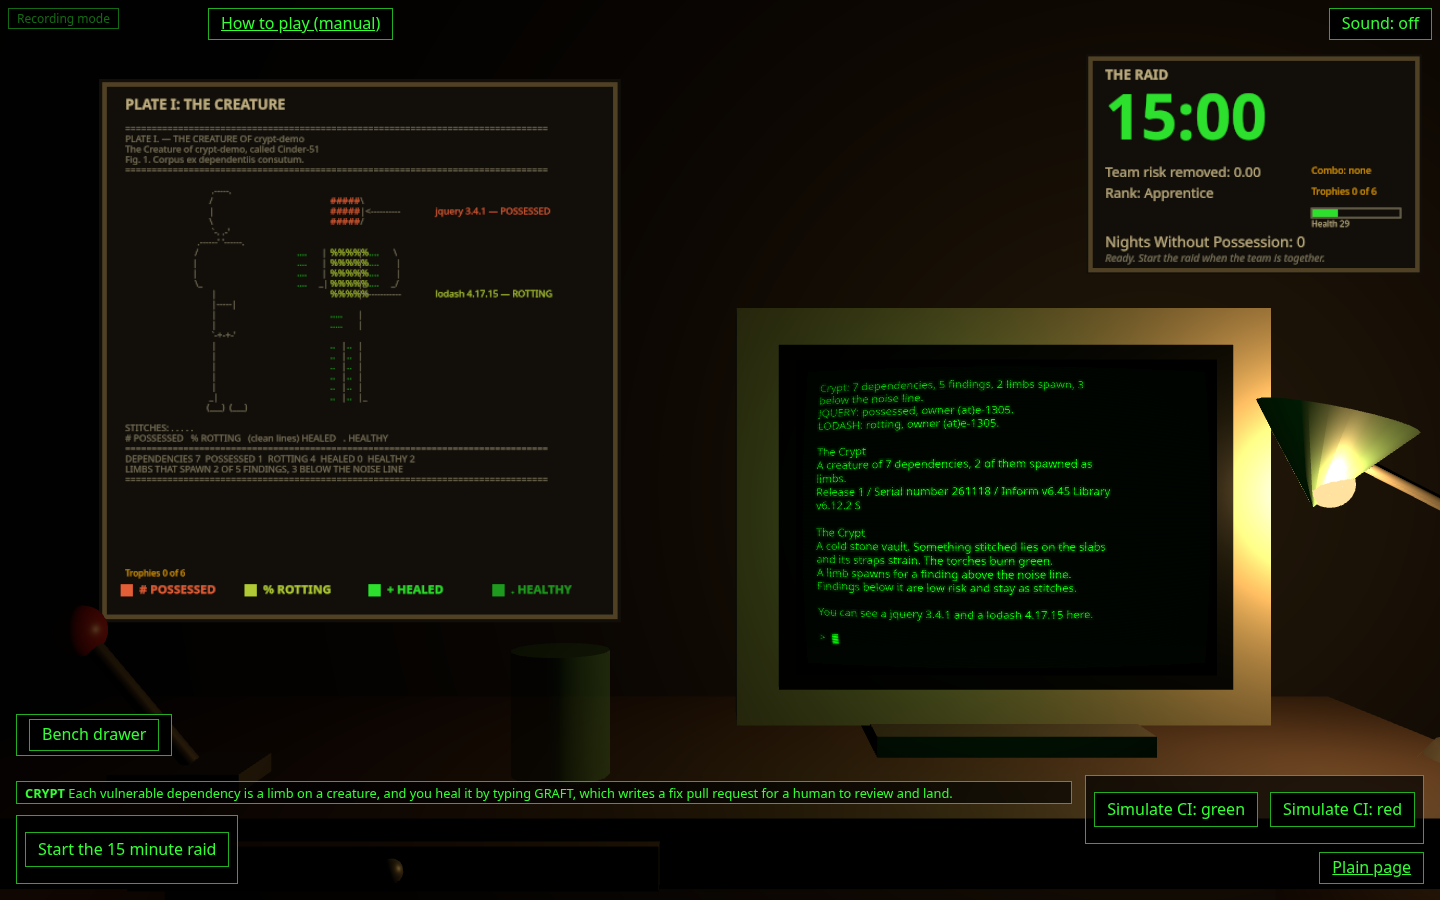
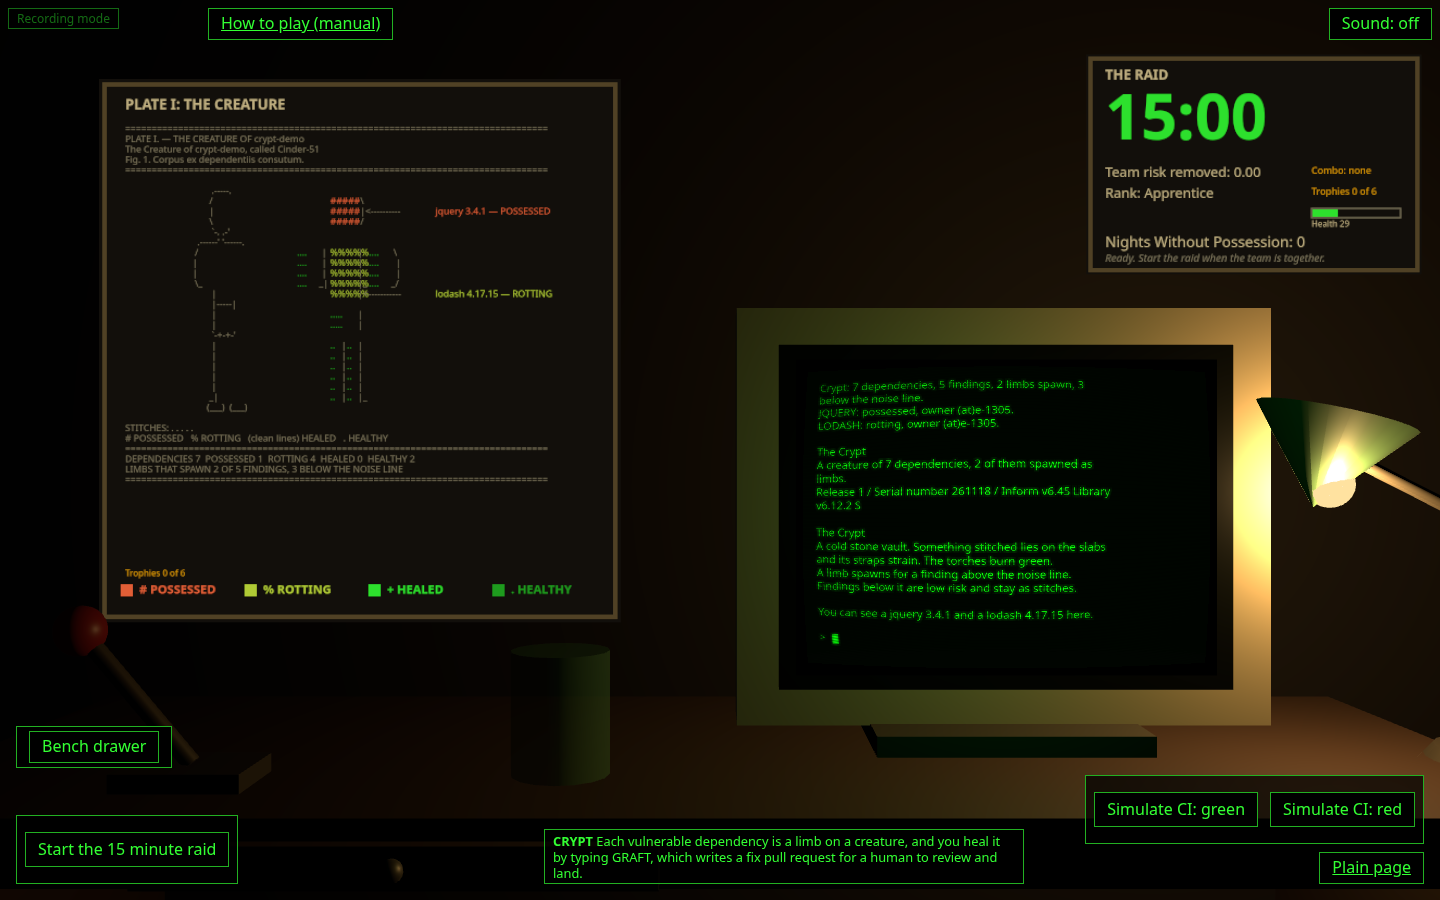
fix(#58): one bottom layout for the 3D bench, caption in its own centre slot

Changed region(s): [[0.0, 0.7778, 0.75, 0.9022], [0.375, 0.9333, 0.6875, 0.9956]]

diff --git a/web/style.css b/web/style.css
@@ -103,13 +103,13 @@ body.theatre { overflow: hidden; background: #050403; }
 body.theatre::after { display: none; }
 body.theatre #theatre-canvas { position: fixed; inset: 0; width: 100vw; height: 100vh; display: block; }
 body.theatre .top, body.theatre .crt { position: absolute; width: 1px; height: 1px; margin: -1px; padding: 0; overflow: hidden; clip-path: inset(50%); white-space: nowrap; border: 0; }
-#theatre-plain { position: fixed; right: 1rem; bottom: 1rem; z-index: 5; color: var(--fg); background: #000; border: 1px solid var(--dim); padding: .25rem .75rem; }
+#theatre-plain { position: fixed; right: var(--bar-edge); bottom: var(--bar-edge); box-sizing: border-box; max-width: var(--bar-right); z-index: 5; color: var(--fg); background: #000; border: 1px solid var(--dim); padding: .25rem .75rem; }
 #theatre-manual { position: fixed; left: 13rem; top: .5rem; z-index: 6; color: var(--fg); background: #000; border: 1px solid var(--dim); padding: .25rem .75rem; min-height: 24px; }
 .manual-link { color: var(--fg); border: 1px solid var(--dim); padding: .25rem .75rem; min-height: 24px; display: inline-block; }
 .manual-link:focus-visible, #theatre-manual:focus-visible, #theatre-plain:focus-visible { outline: 2px solid var(--warn); outline-offset: 2px; }
 
 /* Bench drawer (web/theatre/drawer.js): the A3 actions inside the 3D theatre. */
-#bench-drawer { position: fixed; left: 1rem; bottom: 9rem; z-index: 5; max-width: min(24rem, calc(100vw - 2rem)); color: var(--fg); background: #000; border: 1px solid var(--dim); padding: .25rem .75rem; }
+#bench-drawer { position: fixed; left: var(--bar-edge); bottom: var(--bar-drawer-bottom); z-index: 5; max-width: min(24rem, calc(100vw - 2rem)); color: var(--fg); background: #000; border: 1px solid var(--dim); padding: .25rem .75rem; }
 #bench-drawer-body { padding: .5rem 0; }
 #bench-drawer h2 { margin: 0 0 .25rem; font-size: 1rem; }
 #bench-drawer input { width: 100%; box-sizing: border-box; background: transparent; border: 1px solid var(--dim); color: var(--fg); font: inherit; padding: .25rem; margin: .25rem 0; }
@@ -121,11 +121,11 @@ body.theatre .top, body.theatre .crt { position: absolute; width: 1px; height: 1
 .raid-actions { display: flex; gap: .75rem; margin: .5rem 0; flex-wrap: wrap; }
 .raid-actions button { font: inherit; color: var(--fg); background: #000; border: 1px solid var(--dim); padding: .35rem .75rem; cursor: pointer; }
 .raid-actions button:disabled { opacity: .5; cursor: default; }
-body.theatre #raid { position: fixed; left: 1rem; bottom: 1rem; z-index: 5; margin: 0; padding: .5rem; background: rgba(0,0,0,.7); }
+body.theatre #raid { position: fixed; left: var(--bar-edge); bottom: var(--bar-edge); box-sizing: border-box; max-width: var(--bar-left); z-index: 5; margin: 0; padding: .5rem; background: rgba(0,0,0,.7); }
 body.theatre #raid > h2, body.theatre #raid > p, body.theatre .raid-readout { position: absolute; width: 1px; height: 1px; margin: -1px; overflow: hidden; clip-path: inset(50%); white-space: nowrap; }
 
 /* Simulated CI controls (web/heal.js). In 3D the buttons float bottom right; the label is drawn on the wall plate. */
-body.theatre #sim { position: fixed; right: 1rem; bottom: 3.5rem; z-index: 5; margin: 0; padding: .5rem; background: rgba(0,0,0,.7); }
+body.theatre #sim { position: fixed; right: var(--bar-edge); bottom: calc(var(--bar-edge) + 2.5rem); box-sizing: border-box; max-width: var(--bar-right); z-index: 5; margin: 0; padding: .5rem; background: rgba(0,0,0,.7); }
 body.theatre #sim > h2, body.theatre #sim > p { position: absolute; width: 1px; height: 1px; margin: -1px; overflow: hidden; clip-path: inset(50%); white-space: nowrap; }
 .sim { margin: 0 1rem 1rem; }
 
@@ -224,12 +224,28 @@ body:not(.theatre) .transcript { height: min(40vh, 14rem); min-height: 8rem; }
 .input-row { align-items: baseline; flex-wrap: wrap; }
 .input-row input { min-width: 8rem; }
 
-/* 3D bench caption: the title and the pitch on the first frame. It sits in its own row above the bottom controls (#raid left, #sim right), so no control width can reach it. Text is aria-hidden: the same sentence is in the page header. */
+/* Bottom bar of the 3D bench: one layout with three slots, sized by the variables below so no slot depends on the
+   width of its neighbour's content.
+     left   = #raid (bottom row) with #bench-drawer above it
+     centre = #theatre-caption (the pitch), fills the space between the side slots
+     right  = #sim above #theatre-plain
+   Every piece stays position:fixed (the visual QA check reads computed positions), but all offsets come from these
+   variables. Under 1100px there is no room for a centre slot, so the caption becomes a full-width row above the
+   side slots and the drawer moves up one row. */
+body.theatre {
+  --bar-edge: 1rem; --bar-gap: 1rem;
+  --bar-left: 32rem; --bar-right: 24rem;
+  --bar-row: 7rem;
+  --bar-drawer-bottom: calc(var(--bar-edge) + var(--bar-row) + .25rem);
+}
+@media (max-width: 1100px) { body.theatre { --bar-drawer-bottom: calc(var(--bar-edge) + var(--bar-row) + 3.75rem); } }
+/* The pitch: wraps inside the centre slot, then truncates after 3 lines. The full sentence is the title tooltip. */
 .theatre-caption { display: none; }
-body.theatre .theatre-caption { display: block; position: fixed; z-index: 4; bottom: 6rem; left: 1rem; right: 23rem; margin: 0; padding: .15rem .5rem;
-  font-size: .8rem; line-height: 1.25; color: var(--fg); background: rgba(0, 0, 0, .65); border: 1px solid var(--dim); pointer-events: none; }
+body.theatre .theatre-caption { display: -webkit-box; -webkit-box-orient: vertical; -webkit-line-clamp: 3; line-clamp: 3; overflow: hidden; box-sizing: border-box; position: fixed; z-index: 4; bottom: var(--bar-edge);
+  left: calc(var(--bar-edge) + var(--bar-left) + var(--bar-gap)); right: calc(var(--bar-edge) + var(--bar-right) + var(--bar-gap));
+  margin: 0; padding: .15rem .5rem; font-size: .8rem; line-height: 1.25; color: var(--fg); background: rgba(0, 0, 0, .65); border: 1px solid var(--dim); }
 body.record .theatre-caption { display: none; }
-@media (max-width: 900px) { body.theatre .theatre-caption { bottom: 8rem; left: .5rem; right: .5rem; } }
+@media (max-width: 1100px) { body.theatre .theatre-caption { -webkit-line-clamp: 2; line-clamp: 2; bottom: calc(var(--bar-edge) + var(--bar-row) + .25rem); left: var(--bar-edge); right: var(--bar-edge); } }
 
 /* Visual QA 1 (issue #56). The side stats get their own row so they never share a line with the health bar. */
 .raid-readout #raid-nights { display: block; clear: both; margin: .5rem 0; }

diff --git a/web/index.html b/web/index.html
@@ -9,7 +9,7 @@
 </head>
 <body>
 <a class="skip" href="#cmd">Skip to the game input</a>
-<p id="theatre-caption" class="theatre-caption" aria-hidden="true"><strong>CRYPT</strong> Each vulnerable dependency is a limb on a creature, and you heal it by typing GRAFT, which writes a fix pull request for a human to review and land.</p>
+<p id="theatre-caption" class="theatre-caption" aria-hidden="true" title="CRYPT: Each vulnerable dependency is a limb on a creature, and you heal it by typing GRAFT, which writes a fix pull request for a human to review and land."><strong>CRYPT</strong> Each vulnerable dependency is a limb on a creature, and you heal it by typing GRAFT, which writes a fix pull request for a human to review and land.</p>
 <div class="toolbar">
   <button id="sound-toggle" class="sound-toggle" type="button" aria-pressed="false">Sound: off</button>
   <button id="record-toggle" class="record-toggle" type="button" aria-pressed="false" aria-label="Recording mode: hide the page controls for screen capture">Recording mode</button>
